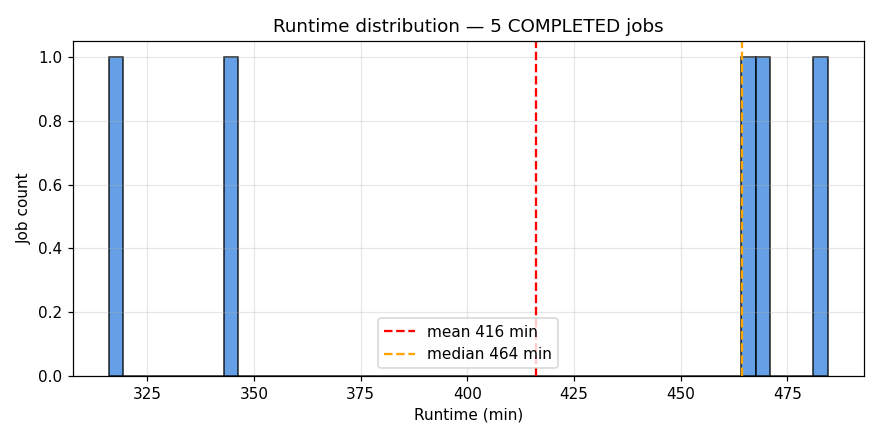
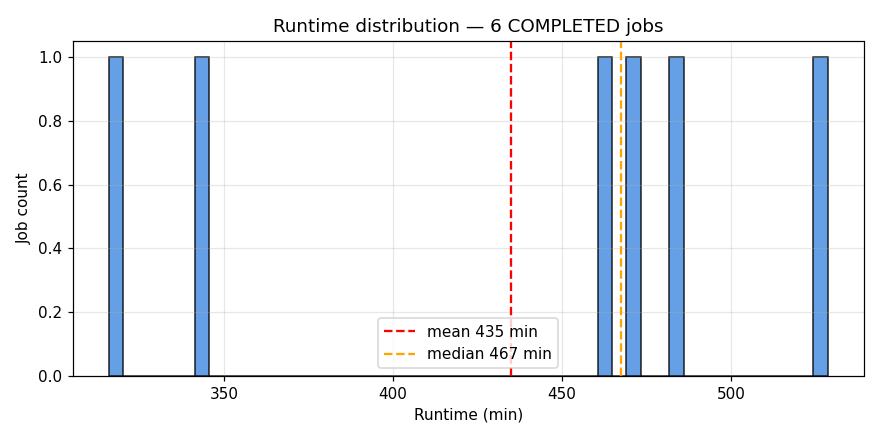
auto: 2026-09-22 16:37:26

diff --git a/index.html b/index.html
@@ -24,29 +24,29 @@ tr:nth-child(even) { background: #fafafa; }
 </style>
 </head><body>
 <h1>AF3 Campaign Dashboard</h1>
-<p class="stamp">Last updated: <strong>2026-09-22 15:36 EDT</strong> · regenerated on the cluster hourly · this page auto-reloads every 30 min</p>
+<p class="stamp">Last updated: <strong>2026-09-22 16:37 EDT</strong> · regenerated on the cluster hourly · this page auto-reloads every 30 min</p>
 
 <div class="cards">
-  <div class="card"><div class="v">81</div><div class="l">Total COMPLETED pairs</div></div>
-  <div class="card"><div class="v">49</div><div class="l">Done today</div></div>
-  <div class="card"><div class="v">49</div><div class="l">Last 24 h rate</div></div>
-  <div class="card"><div class="v">1 / 40</div><div class="l">Running / Pending now</div></div>
+  <div class="card"><div class="v">82</div><div class="l">Total COMPLETED pairs</div></div>
+  <div class="card"><div class="v">50</div><div class="l">Done today</div></div>
+  <div class="card"><div class="v">50</div><div class="l">Last 24 h rate</div></div>
+  <div class="card"><div class="v">0 / 40</div><div class="l">Running / Pending now</div></div>
 </div>
 
 <h2>Live queue</h2>
 <div class="plots">
   <div>
-    <h3>RUNNING (1)</h3>
+    <h3>RUNNING (0)</h3>
     <div class="queue-table">
       <table><thead><tr><th>Job</th><th>Elapsed</th><th>Left</th><th>Reason / Node</th></tr></thead>
-      <tbody><tr><td>af3_p041_b006</td><td>8:03:34</td><td>15:56:26</td><td>alphagpu51</td></tr></tbody></table>
+      <tbody><tr><td colspan=4><em>none</em></td></tr></tbody></table>
     </div>
   </div>
   <div>
     <h3>PENDING (40)</h3>
     <div class="queue-table">
       <table><thead><tr><th>Job</th><th>Wait</th><th>Limit</th><th>Reason</th></tr></thead>
-      <tbody><tr><td>af3_p047_b002</td><td>0:00</td><td>2-00:00:00</td><td>(Priority)</td></tr><tr><td>af3_p047_b001</td><td>0:00</td><td>2-00:00:00</td><td>(Priority)</td></tr><tr><td>af3_p046_b002</td><td>0:00</td><td>2-00:00:00</td><td>(Priority)</td></tr><tr><td>af3_p046_b001</td><td>0:00</td><td>2-00:00:00</td><td>(Priority)</td></tr><tr><td>af3_p045_b002</td><td>0:00</td><td>2-00:00:00</td><td>(Priority)</td></tr><tr><td>af3_p045_b001</td><td>0:00</td><td>2-00:00:00</td><td>(Priority)</td></tr><tr><td>af3_p044_b002</td><td>0:00</td><td>2-00:00:00</td><td>(Priority)</td></tr><tr><td>af3_p044_b001</td><td>0:00</td><td>2-00:00:00</td><td>(Priority)</td></tr><tr><td>af3_p042_b002</td><td>0:00</td><td>2-00:00:00</td><td>(Priority)</td></tr><tr><td>af3_p042_b001</td><td>0:00</td><td>2-00:00:00</td><td>(Priority)</td></tr><tr><td>af3_p041_b002</td><td>0:00</td><td>2-00:00:00</td><td>(Priority)</td></tr><tr><td>af3_p041_b001</td><td>0:00</td><td>2-00:00:00</td><td>(Priority)</td></tr><tr><td>af3_p058_b001</td><td>0:00</td><td>2-00:00:00</td><td>(Priority)</td></tr><tr><td>af3_p057_b002</td><td>0:00</td><td>2-00:00:00</td><td>(Priority)</td></tr><tr><td>af3_p057_b001</td><td>0:00</td><td>2-00:00:00</td><td>(Priority)</td></tr><tr><td>af3_p056_b002</td><td>0:00</td><td>2-00:00:00</td><td>(Priority)</td></tr><tr><td>af3_p056_b001</td><td>0:00</td><td>2-00:00:00</td><td>(Priority)</td></tr><tr><td>af3_p055_b002</td><td>0:00</td><td>2-00:00:00</td><td>(Priority)</td></tr><tr><td>af3_p055_b001</td><td>0:00</td><td>2-00:00:00</td><td>(Priority)</td></tr><tr><td>af3_p054_b002</td><td>0:00</td><td>2-00:00:00</td><td>(Priority)</td></tr><tr><td>af3_p054_b001</td><td>0:00</td><td>2-00:00:00</td><td>(Priority)</td></tr><tr><td>af3_p053_b002</td><td>0:00</td><td>2-00:00:00</td><td>(Priority)</td></tr><tr><td>af3_p053_b001</td><td>0:00</td><td>2-00:00:00</td><td>(Priority)</td></tr><tr><td>af3_p052_b002</td><td>0:00</td><td>2-00:00:00</td><td>(Priority)</td></tr><tr><td>af3_p052_b001</td><td>0:00</td><td>2-00:00:00</td><td>(Priority)</td></tr><tr><td>af3_p051_b002</td><td>0:00</td><td>2-00:00:00</td><td>(Priority)</td></tr><tr><td>af3_p051_b001</td><td>0:00</td><td>2-00:00:00</td><td>(Priority)</td></tr><tr><td>af3_p050_b002</td><td>0:00</td><td>2-00:00:00</td><td>(Priority)</td></tr><tr><td>af3_p050_b001</td><td>0:00</td><td>2-00:00:00</td><td>(Priority)</td></tr><tr><td>af3_p049_b002</td><td>0:00</td><td>2-00:00:00</td><td>(Priority)</td></tr><tr><td>af3_p049_b001</td><td>0:00</td><td>2-00:00:00</td><td>(Priority)</td></tr><tr><td>af3_p048_b002</td><td>0:00</td><td>2-00:00:00</td><td>(Priority)</td></tr><tr><td>af3_p048_b001</td><td>0:00</td><td>2-00:00:00</td><td>(Priority)</td></tr><tr><td>af3_p061_b002</td><td>0:00</td><td>2-00:00:00</td><td>(Priority)</td></tr><tr><td>af3_p061_b001</td><td>0:00</td><td>2-00:00:00</td><td>(Priority)</td></tr><tr><td>af3_p060_b002</td><td>0:00</td><td>2-00:00:00</td><td>(Priority)</td></tr><tr><td>af3_p060_b001</td><td>0:00</td><td>2-00:00:00</td><td>(Priority)</td></tr><tr><td>af3_p059_b002</td><td>0:00</td><td>2-00:00:00</td><td>(Priority)</td></tr><tr><td>af3_p059_b001</td><td>0:00</td><td>2-00:00:00</td><td>(Priority)</td></tr><tr><td>af3_p058_b002</td><td>0:00</td><td>2-00:00:00</td><td>(Priority)</td></tr></tbody></table>
+      <tbody><tr><td>af3_p046_b002</td><td>0:00</td><td>2-00:00:00</td><td>(Priority)</td></tr><tr><td>af3_p046_b001</td><td>0:00</td><td>2-00:00:00</td><td>(Priority)</td></tr><tr><td>af3_p045_b002</td><td>0:00</td><td>2-00:00:00</td><td>(Priority)</td></tr><tr><td>af3_p045_b001</td><td>0:00</td><td>2-00:00:00</td><td>(Priority)</td></tr><tr><td>af3_p044_b002</td><td>0:00</td><td>2-00:00:00</td><td>(Priority)</td></tr><tr><td>af3_p044_b001</td><td>0:00</td><td>2-00:00:00</td><td>(Priority)</td></tr><tr><td>af3_p042_b002</td><td>0:00</td><td>2-00:00:00</td><td>(Priority)</td></tr><tr><td>af3_p042_b001</td><td>0:00</td><td>2-00:00:00</td><td>(Priority)</td></tr><tr><td>af3_p041_b002</td><td>0:00</td><td>2-00:00:00</td><td>(Priority)</td></tr><tr><td>af3_p041_b001</td><td>0:00</td><td>2-00:00:00</td><td>(Priority)</td></tr><tr><td>af3_p047_b002</td><td>0:00</td><td>2-00:00:00</td><td>(Priority)</td></tr><tr><td>af3_p047_b001</td><td>0:00</td><td>2-00:00:00</td><td>(Priority)</td></tr><tr><td>af3_p056_b002</td><td>0:00</td><td>2-00:00:00</td><td>(Priority)</td></tr><tr><td>af3_p056_b001</td><td>0:00</td><td>2-00:00:00</td><td>(Priority)</td></tr><tr><td>af3_p055_b002</td><td>0:00</td><td>2-00:00:00</td><td>(Priority)</td></tr><tr><td>af3_p055_b001</td><td>0:00</td><td>2-00:00:00</td><td>(Priority)</td></tr><tr><td>af3_p054_b002</td><td>0:00</td><td>2-00:00:00</td><td>(Priority)</td></tr><tr><td>af3_p054_b001</td><td>0:00</td><td>2-00:00:00</td><td>(Priority)</td></tr><tr><td>af3_p053_b002</td><td>0:00</td><td>2-00:00:00</td><td>(Priority)</td></tr><tr><td>af3_p053_b001</td><td>0:00</td><td>2-00:00:00</td><td>(Priority)</td></tr><tr><td>af3_p052_b002</td><td>0:00</td><td>2-00:00:00</td><td>(Priority)</td></tr><tr><td>af3_p052_b001</td><td>0:00</td><td>2-00:00:00</td><td>(Priority)</td></tr><tr><td>af3_p051_b002</td><td>0:00</td><td>2-00:00:00</td><td>(Priority)</td></tr><tr><td>af3_p051_b001</td><td>0:00</td><td>2-00:00:00</td><td>(Priority)</td></tr><tr><td>af3_p050_b002</td><td>0:00</td><td>2-00:00:00</td><td>(Priority)</td></tr><tr><td>af3_p050_b001</td><td>0:00</td><td>2-00:00:00</td><td>(Priority)</td></tr><tr><td>af3_p049_b002</td><td>0:00</td><td>2-00:00:00</td><td>(Priority)</td></tr><tr><td>af3_p049_b001</td><td>0:00</td><td>2-00:00:00</td><td>(Priority)</td></tr><tr><td>af3_p048_b002</td><td>0:00</td><td>2-00:00:00</td><td>(Priority)</td></tr><tr><td>af3_p048_b001</td><td>0:00</td><td>2-00:00:00</td><td>(Priority)</td></tr><tr><td>af3_p061_b002</td><td>0:00</td><td>2-00:00:00</td><td>(Priority)</td></tr><tr><td>af3_p061_b001</td><td>0:00</td><td>2-00:00:00</td><td>(Priority)</td></tr><tr><td>af3_p060_b002</td><td>0:00</td><td>2-00:00:00</td><td>(Priority)</td></tr><tr><td>af3_p060_b001</td><td>0:00</td><td>2-00:00:00</td><td>(Priority)</td></tr><tr><td>af3_p059_b002</td><td>0:00</td><td>2-00:00:00</td><td>(Priority)</td></tr><tr><td>af3_p059_b001</td><td>0:00</td><td>2-00:00:00</td><td>(Priority)</td></tr><tr><td>af3_p058_b002</td><td>0:00</td><td>2-00:00:00</td><td>(Priority)</td></tr><tr><td>af3_p058_b001</td><td>0:00</td><td>2-00:00:00</td><td>(Priority)</td></tr><tr><td>af3_p057_b002</td><td>0:00</td><td>2-00:00:00</td><td>(Priority)</td></tr><tr><td>af3_p057_b001</td><td>0:00</td><td>2-00:00:00</td><td>(Priority)</td></tr></tbody></table>
     </div>
   </div>
 </div>
@@ -62,7 +62,7 @@ tr:nth-child(even) { background: #fafafa; }
 </div>
 
 <h2>All-time job state breakdown</h2>
-<table><thead><tr><th>State</th><th>Count</th></tr></thead><tbody><tr><td>PENDING</td><td>40</td></tr><tr><td>COMPLETED</td><td>5</td></tr><tr><td>RUNNING</td><td>1</td></tr></tbody></table>
+<table><thead><tr><th>State</th><th>Count</th></tr></thead><tbody><tr><td>PENDING</td><td>40</td></tr><tr><td>COMPLETED</td><td>6</td></tr></tbody></table>
 
 <p class="stamp"><small>Generated by <code>generate.py</code> on the SUNY HPC cluster.
 Source / regeneration policy at <a href="https://github.com/matvei-lukianov/af3-dashboard">github.com/matvei-lukianov/af3-dashboard</a></small></p>
